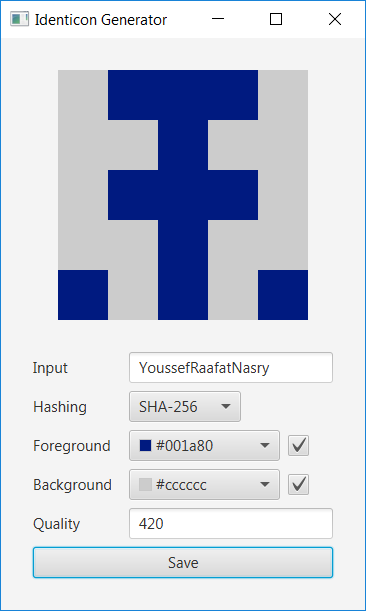
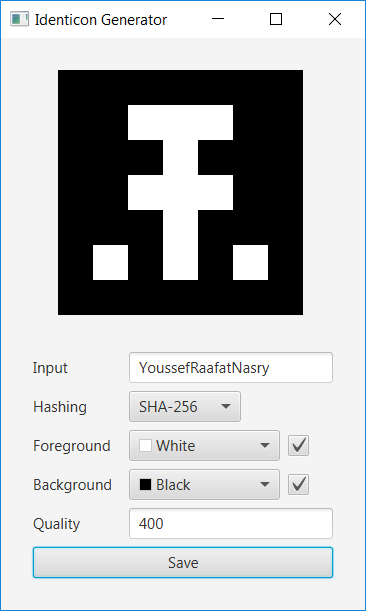
Add Border to Identicons

diff --git a/src/identicon/IdenticonGeneratorController.java b/src/identicon/IdenticonGeneratorController.java
@@ -25,8 +25,11 @@ import java.security.NoSuchAlgorithmException;
 
 public class IdenticonGeneratorController {
 
+    private final int BORDER_SIZE   = 1;
     private final int ORIGINAL_SIZE = 5;
-    private final int PREVIEW_SIZE = 250;
+    private final int TOTAL_SIZE    = ORIGINAL_SIZE + 2 * BORDER_SIZE;
+    private final int PREVIEW_SIZE  = 250;
+
     private BufferedImage identicon;
 
     @FXML public TextField inputTextField;
@@ -139,18 +142,27 @@ public class IdenticonGeneratorController {
         int[] background = new int[]{r, g, b, a};
 
 
-        // Generate Identicon
-
-        BufferedImage identicon = new BufferedImage(ORIGINAL_SIZE, ORIGINAL_SIZE, BufferedImage.TYPE_INT_ARGB);
+        BufferedImage identicon = new BufferedImage(TOTAL_SIZE, TOTAL_SIZE, BufferedImage.TYPE_INT_ARGB);
         WritableRaster raster = identicon.getRaster();
 
+        // Draw Border
+        for (int x = 0; x < TOTAL_SIZE; x++) {
+            for (int y = 0; y < TOTAL_SIZE; y++) {
+                if (x == 0 || x == TOTAL_SIZE - 1 ||
+                    y == 0 || y == TOTAL_SIZE - 1) {
+                    raster.setPixel(x, y, background);
+                }
+            }
+        }
+
+        // Draw Identicon
         for (int x = 0; x < ORIGINAL_SIZE; x++) {
             int i = x < 3 ? x : 4 - x;
             for (int y = 0; y < ORIGINAL_SIZE; y++) {
                 if ((hashedText[i] >> y & 1) == 1) {
-                    raster.setPixel(x, y, foreground);
+                    raster.setPixel(x + 1, y + 1, foreground);
                 } else {
-                    raster.setPixel(x, y, background);
+                    raster.setPixel(x + 1, y + 1, background);
                 }
             }
         }
@@ -160,10 +172,12 @@ public class IdenticonGeneratorController {
     }
 
     private Image scaleImage(BufferedImage image, int scaleSize) {
+
         BufferedImage scaledImage = new BufferedImage(scaleSize, scaleSize, BufferedImage.TYPE_INT_ARGB);
 
         AffineTransform transform = new AffineTransform();
-        transform.scale(scaleSize / ORIGINAL_SIZE, scaleSize / ORIGINAL_SIZE);
+        int scale = scaleSize / TOTAL_SIZE;
+        transform.scale(scale, scale);
 
         AffineTransformOp transformOp = new AffineTransformOp(transform, AffineTransformOp.TYPE_NEAREST_NEIGHBOR);
         scaledImage = transformOp.filter(image, scaledImage);
